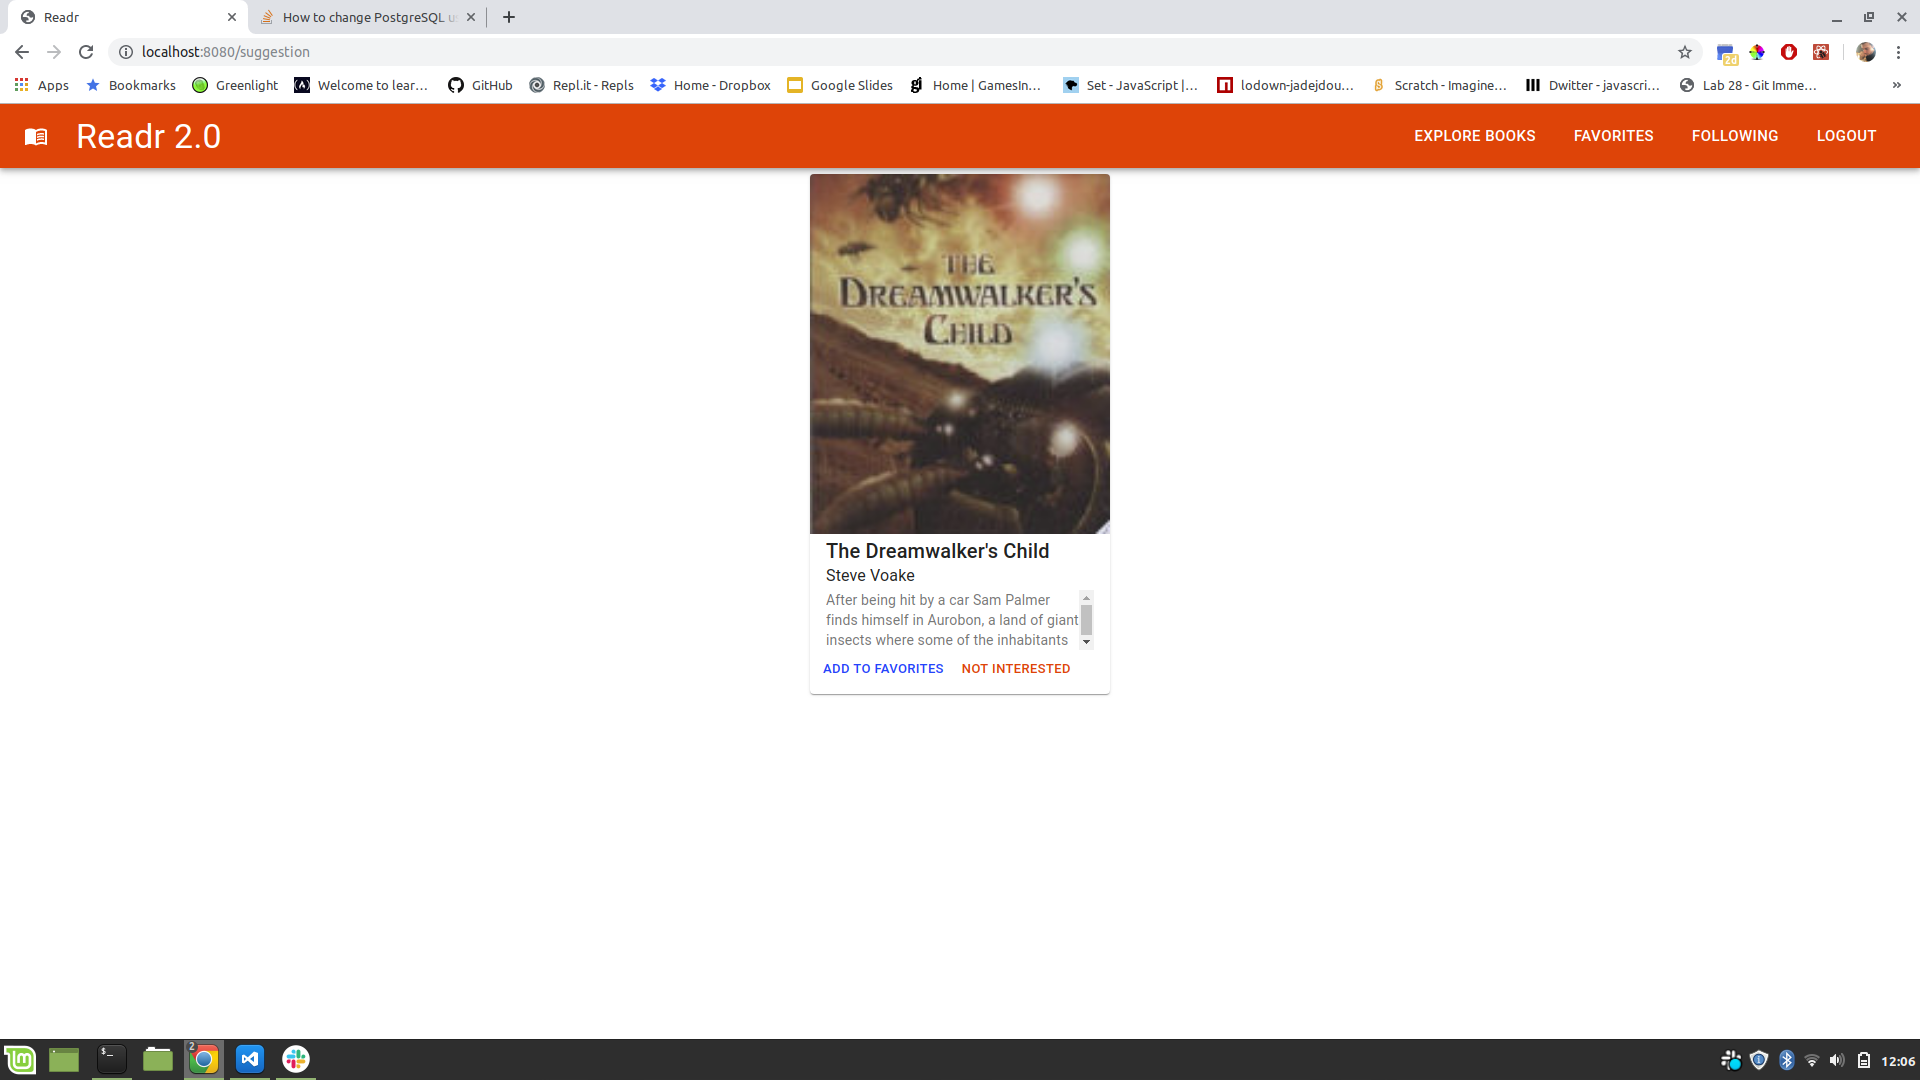
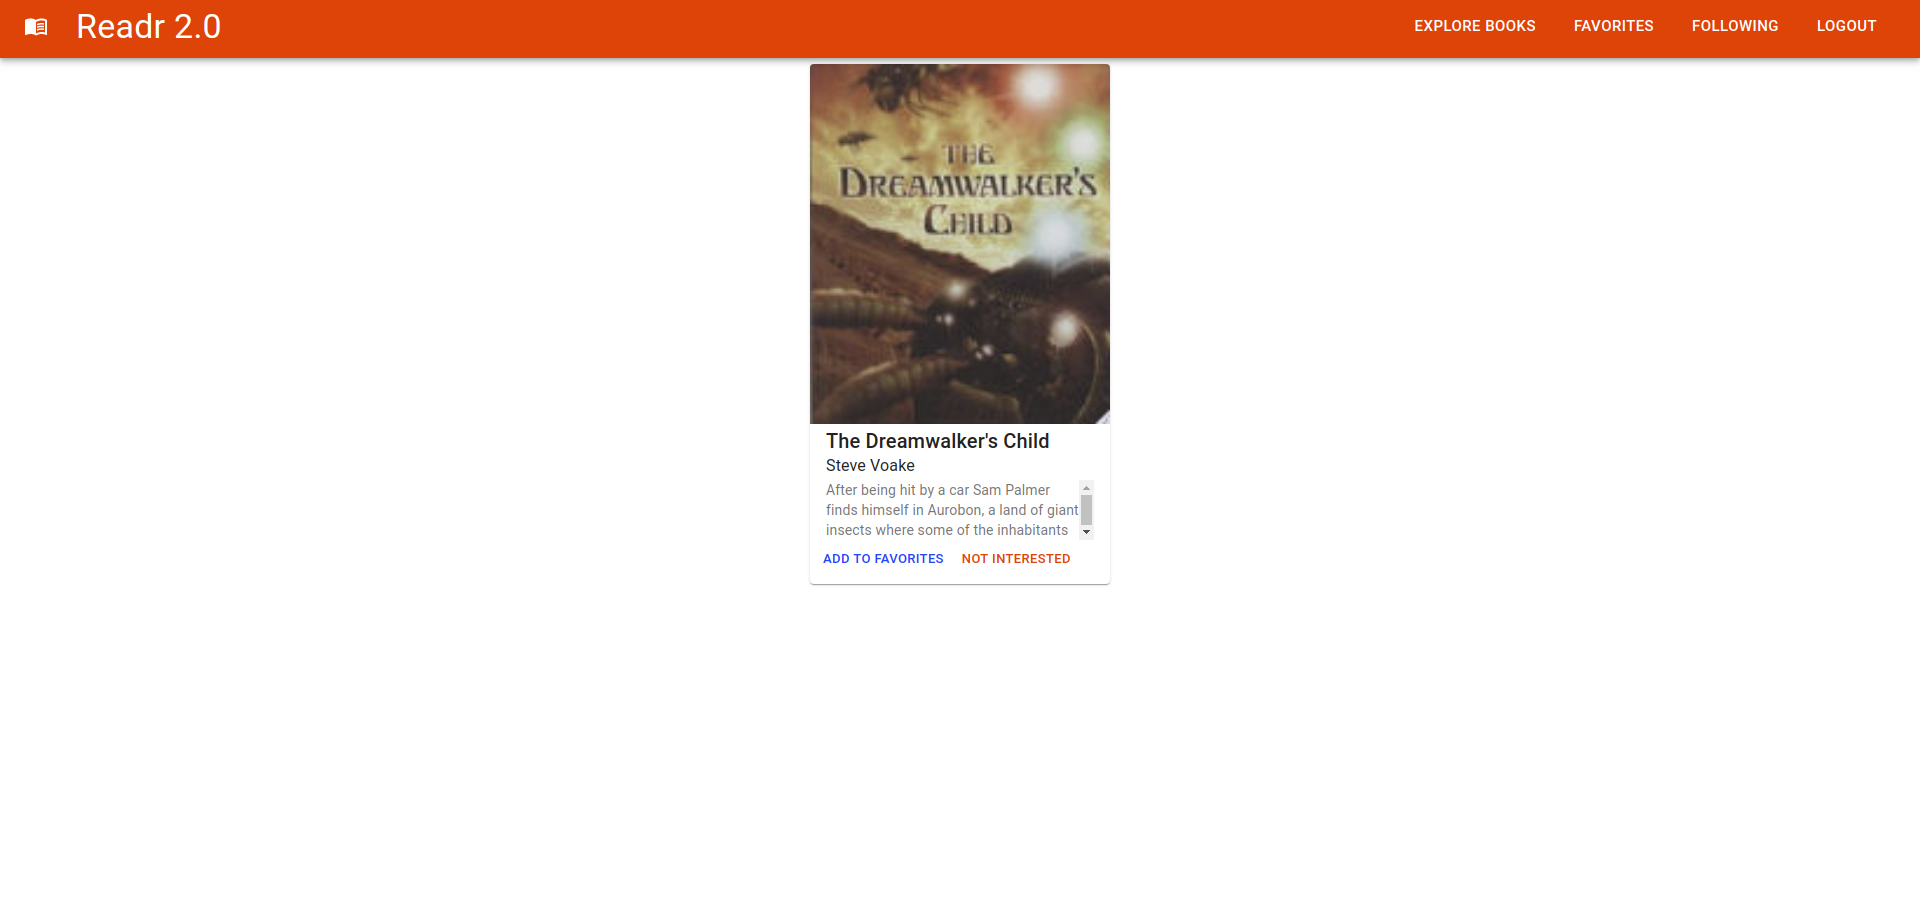
updated styling and description

Changed region(s): [[0.0, 0.0, 1.0, 0.6419], [0.0, 0.9476, 1.0, 1.0]]

diff --git a/src/components/Readr.js b/src/components/Readr.js
@@ -1,5 +1,5 @@
 import React from 'react';
-import { Grid, Typography, Paper } from '@material-ui/core';
+import { Grid, Typography } from '@material-ui/core';
 import { Carousel } from 'react-responsive-carousel';
 import styles from 'react-responsive-carousel/lib/styles/carousel.min.css';
 
@@ -9,10 +9,10 @@ import projects from '../project-data/projects.js';
 const Readr = projects[2];
 // const ScannarBusiness = projects[1];
 
-export default function ScannAR() {
-  const styles = {
+export default function ReadrProject() {
+  const style = {
     image: {
-      width: '27%',
+      width: '93.5%',
       borderRadius: 5,
       position: 'static',
       right: '16.61%',
@@ -37,27 +37,20 @@ export default function ScannAR() {
       boxShadow: '0px 0px 5px black',
       flexWrap: 'wrap-reverse',
     },
-    paperWrapper: {
-      paddingTop: '2%',
-      marginTop: '2%',
-      width: '75%',
-      textAlign: 'justify',
-      boxShadow: 'none', // override paper shadow
-    },
     carouselItem: {
       backgroundColor: 'rgba(255, 255, 255, 0.75)',
     },
   };
   
-  const { image, gridWrapper, paperWrapper, iphone, noShow, carouselItem } = styles;
+  const { image, gridWrapper, carouselItem } = style;
 
   return (
   <Grid container spacing={2} style={gridWrapper}>
     <Grid container style={{ justifyContent: 'center' }}>
       <Grid item xs={12}>
-        {/* <Typography variant="h5" style={{ textAlign: 'center', padding: '1%' }}>ScannAR</Typography> */}
         <Typography variant="body2" style={{ textAlign: 'justify', padding: '2%', paddingLeft: '20%', paddingRight: '20%' }}>
-          {Readr.description}
+          Readr is a reading suggestion application which also offers an in-browser reading experience for open source books.
+          Our books are sourced from Open library, and Readr has a custom algorithm for book reccomendations based users swiping left or right on books they like or dislike.
         </Typography>
         <Typography variant="body1" style={{ paddingTop: '1%' }}>View on <a href={Readr.url}>GitHub</a></Typography>
       </Grid>

diff --git a/src/components/ScannAR.js b/src/components/ScannAR.js
@@ -1,5 +1,5 @@
 import React from 'react';
-import { Grid, Typography, Paper } from '@material-ui/core';
+import { Grid, Typography } from '@material-ui/core';
 import { Carousel } from 'react-responsive-carousel';
 import styles from 'react-responsive-carousel/lib/styles/carousel.min.css';
 
@@ -10,7 +10,7 @@ const ScannarCustomer = projects[0];
 const ScannarBusiness = projects[1];
 
 export default function ScannAR() {
-  const styles = {
+  const style = {
     image: {
       width: '27%',
       borderRadius: 5,
@@ -49,7 +49,7 @@ export default function ScannAR() {
     },
   };
   
-  const { image, gridWrapper, paperWrapper, iphone, noShow, carouselItem } = styles;
+  const { image, gridWrapper, carouselItem } = style;
 
   return (
   <Grid container spacing={2} style={gridWrapper}>

diff --git a/src/components/Projects.js b/src/components/Projects.js
@@ -3,6 +3,7 @@ import { Typography } from '@material-ui/core';
 
 // import components
 import ScannAR from './ScannAR';
+import ReaderProject from './Readr.js';
 
 export default function Projects() {
   const styles = {
@@ -22,6 +23,7 @@ export default function Projects() {
     <div id="projects" style={container}>
       <Typography variant="h4" style={text}>Recent Projects</Typography>
       <ScannAR />
+      <ReaderProject />
     </div>
   );
 };
